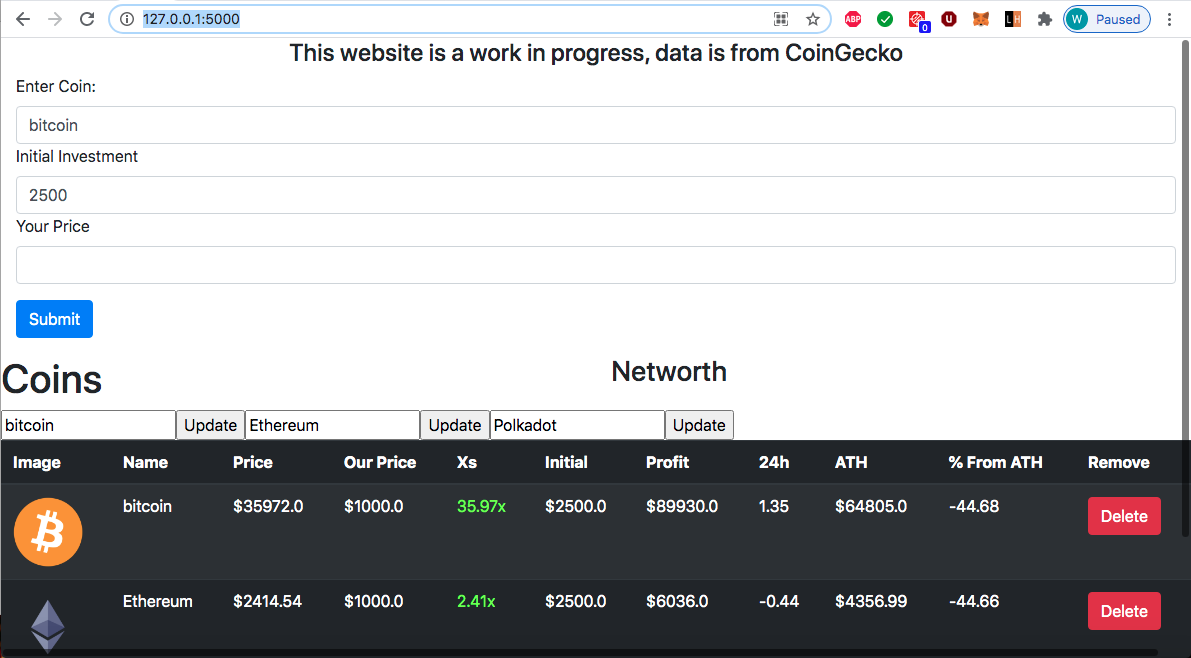
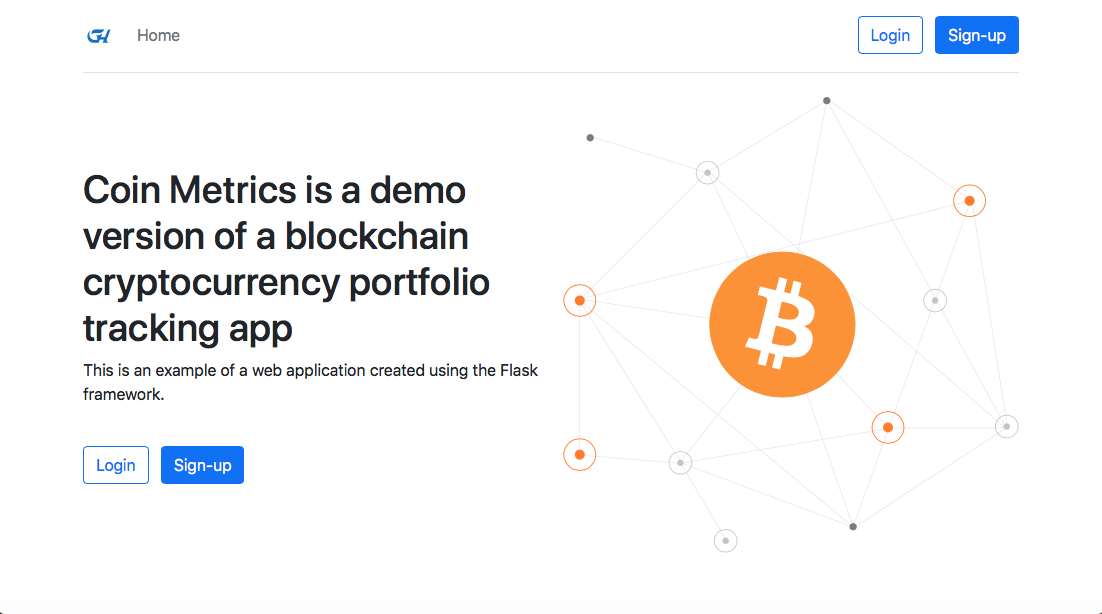
Updated feature website image and attributes

diff --git a/content/featured/CryptoPortfolio/index.md b/content/featured/CryptoPortfolio/index.md
@@ -7,6 +7,8 @@ tech:
   - Flask
   - Python
   - Coin Gecko API
+  - Auth0 API
+  - Bootstrap
 showInProjects: true
 ---
 
